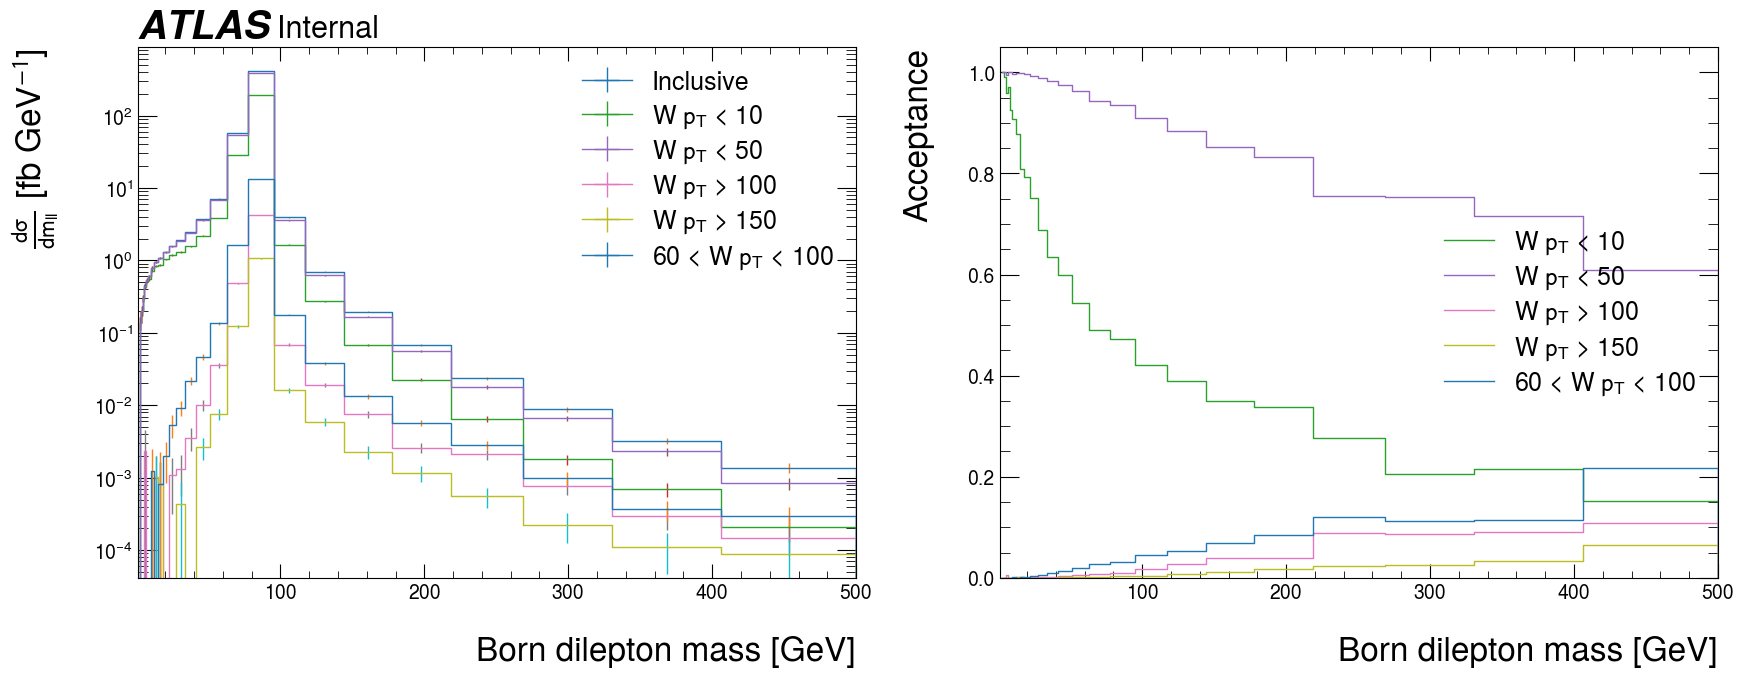
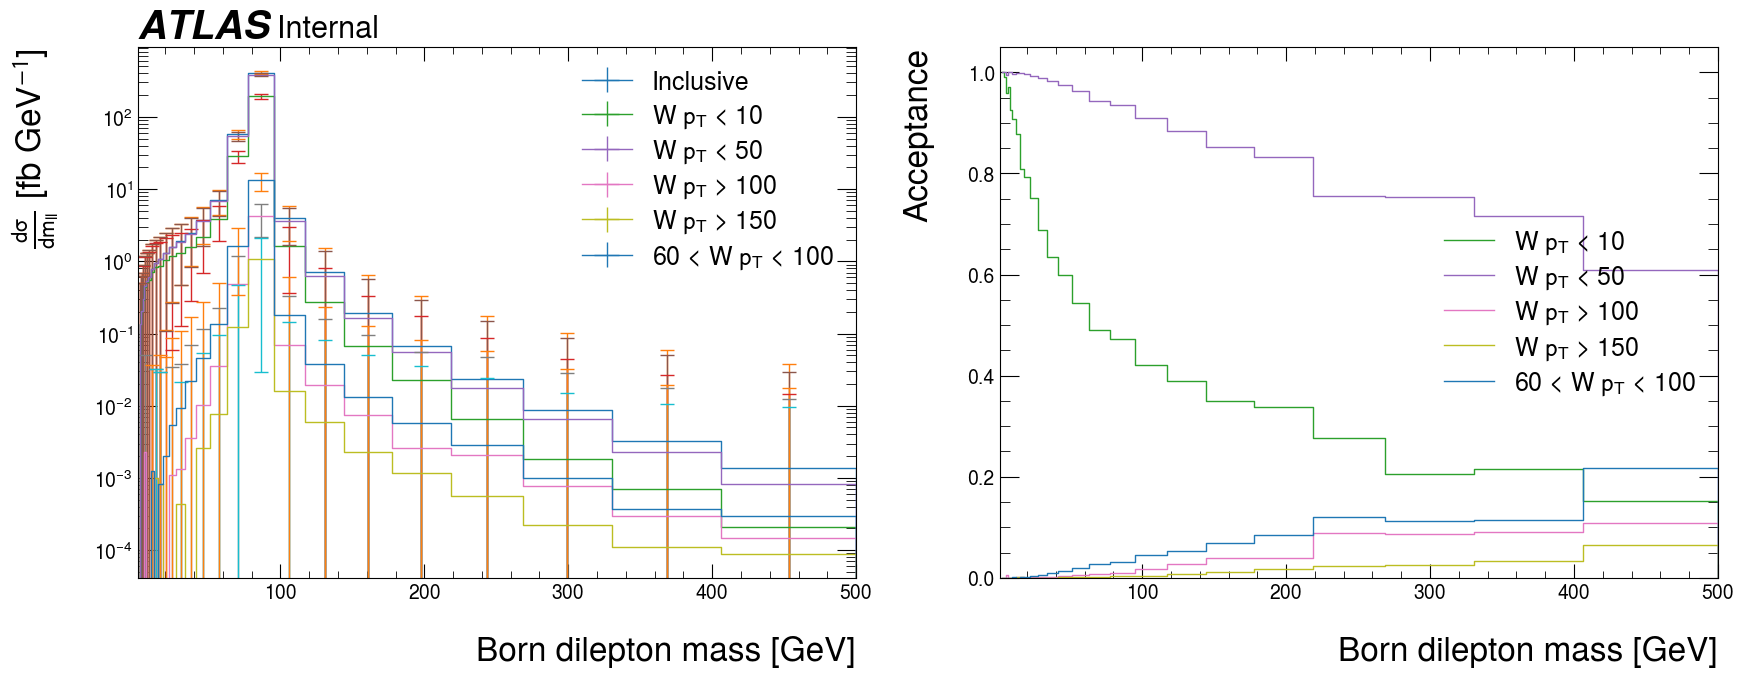
Fixed a bug in sequantial cutflow generation. Boost_histogram actually scales correctly. Something else is the cause of the errors not matching with ROOT.

diff --git a/src/utils/cutflow.py b/src/utils/cutflow.py
@@ -12,12 +12,15 @@ class Cutflow:
                  sequential: bool = True,
                  ):
         """
-        TODO
-        :param df:
-        :param cut_dicts:
-        :param cutgroups:
-        :param cut_label:
-        :param sequential:
+        Generates cutflow object that keeps track of various properties and ratios of selections made in analysis
+
+        :param df: Input analysis dataframe with boolean cut rows.
+        :param cut_dicts: Dictionary of cufts made.
+        :param cutgroups: Optional ordered dictionary of cut groups. If suppled, will organise cutflow in terms of
+                          cutgroups rather than individual cuts.
+        :param cut_label: Label for boolean cut rows in dataframe
+        :param sequential: Whether or not to organise cutflow as each cut happening one after the other
+                           or each cut separately. Default True. If false, plots each cut separately.
         """
         # When sequential cuts, apply each cut one after each other in the order they were input into the cutfile
         self._is_sequential = sequential
@@ -45,23 +48,23 @@ class Cutflow:
             df = df[[col for col in df.columns if cut_label in col]]
 
             # special variables only for sequential cuts
-            self.cutflow_a_ratio = []  # contains ratio of each separate cut to inclusive sample
-            self.cutflow_cum = []  # contains ratio of each cut to inclusive sample
+            self.cutflow_a_ratio = [1.0]  # contains ratio of each separate cut to inclusive sample
+            self.cutflow_cum = [1.0]  # contains ratio of each cut to inclusive sample
 
             # generate cutflow
             prev_n = self._n_events_tot  # saves the last cut in loop
             curr_cut_columns = []  # which cuts have already passed
             if self._cutgroups:
                 # loop over groups
-                for group in self._cutgroups:
-                    curr_cut_columns += self._cutgroups[group]
+                for group in self._cutgroups.values():
+                    curr_cut_columns += [cut + cut_label for cut in group]
                     # number of events passing current cut & all previous cuts
                     n_events_left = len(df[df[curr_cut_columns].all(1)].index)
                     # append calculations to cutflow arrays
                     self.cutflow_n_events.append(n_events_left)
                     self.cutflow_ratio.append(n_events_left / prev_n)
                     self.cutflow_cum.append(n_events_left / self._n_events_tot)
-                    self.cutflow_a_ratio.append(len(df[df[group + cut_label]].index) / self._n_events_tot)
+                    self.cutflow_a_ratio.append(len(df[df[[cut + cut_label for cut in group]].all(1)].index) / self._n_events_tot)
                     prev_n = n_events_left
             else:
                 # loop over individual cuts
@@ -73,7 +76,7 @@ class Cutflow:
                     self.cutflow_n_events.append(n_events_left)
                     self.cutflow_ratio.append(n_events_left / prev_n)
                     self.cutflow_cum.append(n_events_left / self._n_events_tot)
-                    self.cutflow_a_ratio.append(len(df[df[cut + cut_label]].index) / self._n_events_tot)
+                    self.cutflow_a_ratio.append(len(df[df[cut + cut_label].all(1)].index) / self._n_events_tot)
                     prev_n = n_events_left
 
             # assign histogram options for each type
@@ -153,7 +156,7 @@ class Cutflow:
                   "Events " + " " * (max_n_len - 6) +
                   "Ratio A. Ratio Cum. Ratio")
             # first line is inclusive sample
-            print("Inclusive " + " " * (max_name_len - 9) + f"{self._n_events_tot} -     -     -")
+            print("Inclusive " + " " * (max_name_len - 9) + f"{self._n_events_tot} -     -        -")
 
             # print line
             for i, cutname in enumerate(self.cutflow_labels[1:]):
@@ -163,8 +166,8 @@ class Cutflow:
                 a_ratio = self.cutflow_a_ratio[i + 1]
                 print(f"{cutname:<{max_name_len}} "
                       f"{n_events:<{max_n_len}} "
-                      f"{ratio:.3f}    "
-                      f"{a_ratio:.3f} "
+                      f"{ratio:.3f} "
+                      f"{a_ratio:.3f}    "
                       f"{cum_ratio:.3f}")
         else:
             # cutflow printout

diff --git a/src/analysis/my_analysis.py b/src/analysis/my_analysis.py
@@ -14,6 +14,8 @@ from utils.dataframe_utils import (build_analysis_dataframe, create_cut_columns,
                                    gen_weight_column, rescale_to_gev,
                                    get_cross_section, get_luminosity)
 
+# TODO: Generate logs
+
 
 class Analysis:
     # ===========================
@@ -42,7 +44,7 @@ class Analysis:
                  etabins: Union[tuple, list] = (20, -10, 10),
                  ):
         """
-        TODO
+        TODO __init__ doc string
         :param root_path:
         :param cutfile:
         :param lepton:
@@ -78,6 +80,10 @@ class Analysis:
         self._build_dataframe, self._make_backup = compare_cutfile_backup(self._cutfile,
                                                                           self.backup_cutfiles_dir,
                                                                           self.pkl_df_filepath)
+
+        # if new cutfile, save backup
+        if self._make_backup:
+            backup_cutfile(self.backup_cutfiles_dir, self._cutfile)
 
         # place plots in outputs/plots/<cutfile name>
         self.plot_dir = self.out_plots_dir + self._cutfile_name.rstrip('.txt') + '/'
@@ -128,10 +134,6 @@ class Analysis:
                                cutgroups=self.cutgroups if grouped_cutflow else None,
                                cut_label=self.cut_label,
                                sequential=self.options['sequential'])
-
-        # if new cutfile, save backup
-        if self._make_backup:
-            backup_cutfile(self.backup_cutfiles_dir, self._cutfile)
 
     # ===============================
     # =========== PLOTS =============
@@ -187,9 +189,23 @@ class Analysis:
                          event: bool = True,
                          ratio: bool = False,
                          cummulative: bool = False,
-                         a_ratio: bool = False
-                         ):
-        """Generates and saves cutflow histograms"""
+                         a_ratio: bool = False,
+                         all_plots: bool = False,
+                         ) -> None:
+        """
+        Generates and saves cutflow histograms. Choose which cutflow histogram option to print. Default: only by-event.
+
+        :param event: y-axis is number of events passing each cut
+        :param ratio: ratio of each subsequent cut if sequential,
+                      else ratio of events passing each cut to inclusive sample
+        :param cummulative: ratio of each cut to the previous cut
+        :param a_ratio: ratio of cut to inclusive sample
+        :param all_plots: it True, plot all
+        :return: None
+        """
+        if all_plots:
+            event = ratio = cummulative = a_ratio = True
+
         if event:
             self.cutflow.print_histogram(self.plot_dir, 'event')
         if ratio:
@@ -280,15 +296,15 @@ class Analysis:
 
 if __name__ == '__main__':
     my_analysis = Analysis(root_path='../../data/mc16d_wmintaunu/*',
-                           cutfile='../../options/wpt_cuts.txt',
+                           cutfile='../../options/cutfile.txt',
                            lepton='tau',
                            force_rebuild=False
                            )
 
     # pipeline
-    my_analysis.plot_with_cuts(scaling='xs')
+    # my_analysis.plot_with_cuts(scaling='xs')
     # my_analysis.make_all_cutgroup_2dplots()
-    my_analysis.gen_cutflow_hist(ratio=True)
+    my_analysis.gen_cutflow_hist(all_plots=True)
     my_analysis.cutflow_printout()
     my_analysis.kinematics_printouts()
     my_analysis.print_cutflow_latex_table()

diff --git a/src/utils/plotting_utils.py b/src/utils/plotting_utils.py
@@ -13,6 +13,7 @@ from utils.axis_labels import labels_xs
 # set ATLAS style plots
 plt.style.use([hep.style.ATLAS,
                {'font.sans-serif': ['Tex Gyre Heros']},  # use when helvetica isn't installed
+               {'errorbar.capsize': 5},
                ])
 
 
@@ -25,8 +26,6 @@ def scale_to_crosssection(hist: bh.Histogram, luminosity) -> bh.Histogram:
         raise Exception("Currently undefined behaviour for multi-dimentional histograms")
     factor = (luminosity * hist.axes[0].widths)
     hist /= factor
-    if hasattr(hist.view(), 'variance'):
-        hist.view().variance /= factor
     return hist
 
 
@@ -38,25 +37,19 @@ def scale_by_bin_widths(hist: bh.Histogram) -> bh.Histogram:
         raise Exception("Currently undefined behaviour for multi-dimentional histograms")
     factor = hist.axes[0].widths
     hist /= factor
-    if hasattr(hist.view(), 'variance'):
-        hist.view().variance /= factor
     return hist
 
 
-def get_sumw2_1d(hist: bh.Histogram) -> np.array:
-    """Returns numpy array of sum of weights squared in 1d boost-histogram histogram"""
-    if len(hist.axes) != 1:
-        raise Exception("Currently undefined behaviour for multi-dimentional histograms")
+def get_sumw2(hist: bh.Histogram) -> np.array:
+    """Returns numpy array of sum of weights squared in oost-histogram histogram"""
     # variances are sum of weights squared in each histogram bin
-    return np.array([hist[idx].variance for idx, _ in enumerate(hist.axes[0])])
+    return hist.view().variance
 
 
-def get_root_sumw2_1d(hist: bh.Histogram) -> np.array:
-    """Returns numpy array of root of sum of weights squared in 1d boost-histogram histogram"""
-    if len(hist.axes) != 1:
-        raise Exception("Currently undefined behaviour for multi-dimentional histograms")
+def get_root_sumw2(hist: bh.Histogram) -> np.array:
+    """Returns numpy array of root of sum of weights squared in boost-histogram histogram"""
     # variances are sum of weights squared in each histogram bin
-    return np.array([np.sqrt(hist[idx].variance) for idx, _ in enumerate(hist.axes[0])])
+    return np.sqrt(hist.view().variance)
 
 
 def get_axis_labels(var_name: str, lepton: str = 'lepton') -> Tuple[Optional[str], Optional[str]]:
@@ -132,6 +125,7 @@ def set_fig_1d_axis_options(axis: plt.axes, var_name: str, lepton: str, bins: Un
     :param lepton: lepton name to pass to axis labels
     :param scaling: scaling used in plot
     :param is_logbins: whether bins are logarithmic
+    :param logx: bool whether to set log axis
     :param logy: whether to set logarithmic bins where appropriate
     :return: changed axis (also works in place)
     """
@@ -219,7 +213,7 @@ def histplot_1d(var_x: pd.Series,
     # global_scale
     if isinstance(yerr, str):
         if yerr.lower() == 'sumw2':
-            yerr = get_root_sumw2_1d(h_cut)  # get sum of weights squared
+            yerr = get_root_sumw2(h_cut)  # get sum of weights squared
         else:
             raise ValueError("possible y error string value(s): 'sumw2'")
 

diff --git a/tests/utils/test_plotting_tools.py b/tests/utils/test_plotting_tools.py
@@ -1,6 +1,6 @@
 import boost_histogram as bh
 import pytest
-from utils.plotting_utils import get_sumw2_1d, get_axis_labels
+from utils.plotting_utils import get_sumw2, get_axis_labels
 
 
 class TestGetSumW21D(object):
@@ -21,7 +21,7 @@ class TestGetSumW21D(object):
         h.fill(x, weight=2)
 
         expected_output = [4.0, 4.0, 4.0, 4.0, 4.0]
-        actual_output = get_sumw2_1d(h)
+        actual_output = get_sumw2(h)
 
         assert expected_output == actual_output, f"Expected: {expected_output}. Actual: {actual_output}"
 

diff --git a/quick_test_scripts/simple_weight.py b/quick_test_scripts/simple_weight.py
@@ -2,7 +2,7 @@
 # -*- coding: utf-8 -*-
 
 import boost_histogram as bh
-from utils.plotting_utils import get_sumw2_1d
+from utils.plotting_utils import get_sumw2
 
 # Make 1-d histogram with 5 logarithmic bins from 1e0 to 1e5
 h = bh.Histogram(
@@ -24,5 +24,5 @@ for idx, (lower, upper) in enumerate(h.axes[0]):
     val = h[idx]
     print(f"bin {idx} in [{lower:g}, {upper:g}): {val.value} +/- {val.variance ** .5}")
 
-sumw2 = get_sumw2_1d(h)
+sumw2 = get_sumw2(h)
 print(sumw2, type(sumw2))

diff --git a/outputs/LaTeX_cutflow_table/cutfile_cutflow_2020-11-03_14-21-00.tex b/outputs/LaTeX_cutflow_table/cutfile_cutflow_2020-11-03_14-21-00.tex
@@ -1,0 +1,7 @@
+\begin{tabular}{|c||c|c|c|}
+\hline
+Cut & Events & Ratio & Cumulative \\\hline
+Inclusive & 3080000 & - & - \\
+eta cut & 3080000 & 1.000 & 1.000 \\
+pT cut & 1887622 & 0.613 & 0.613 \\
+\end{tabular}
